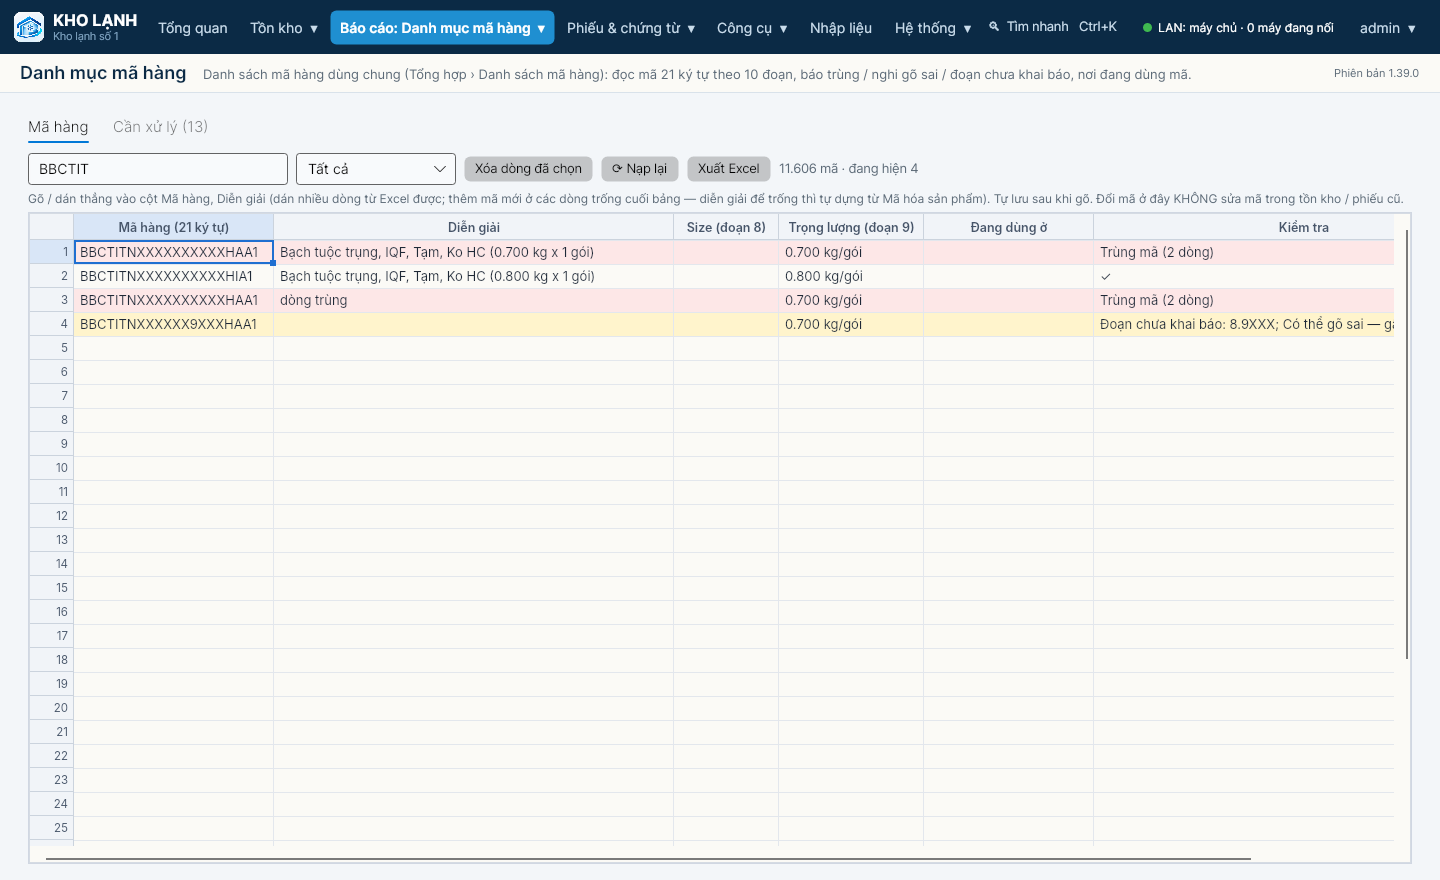
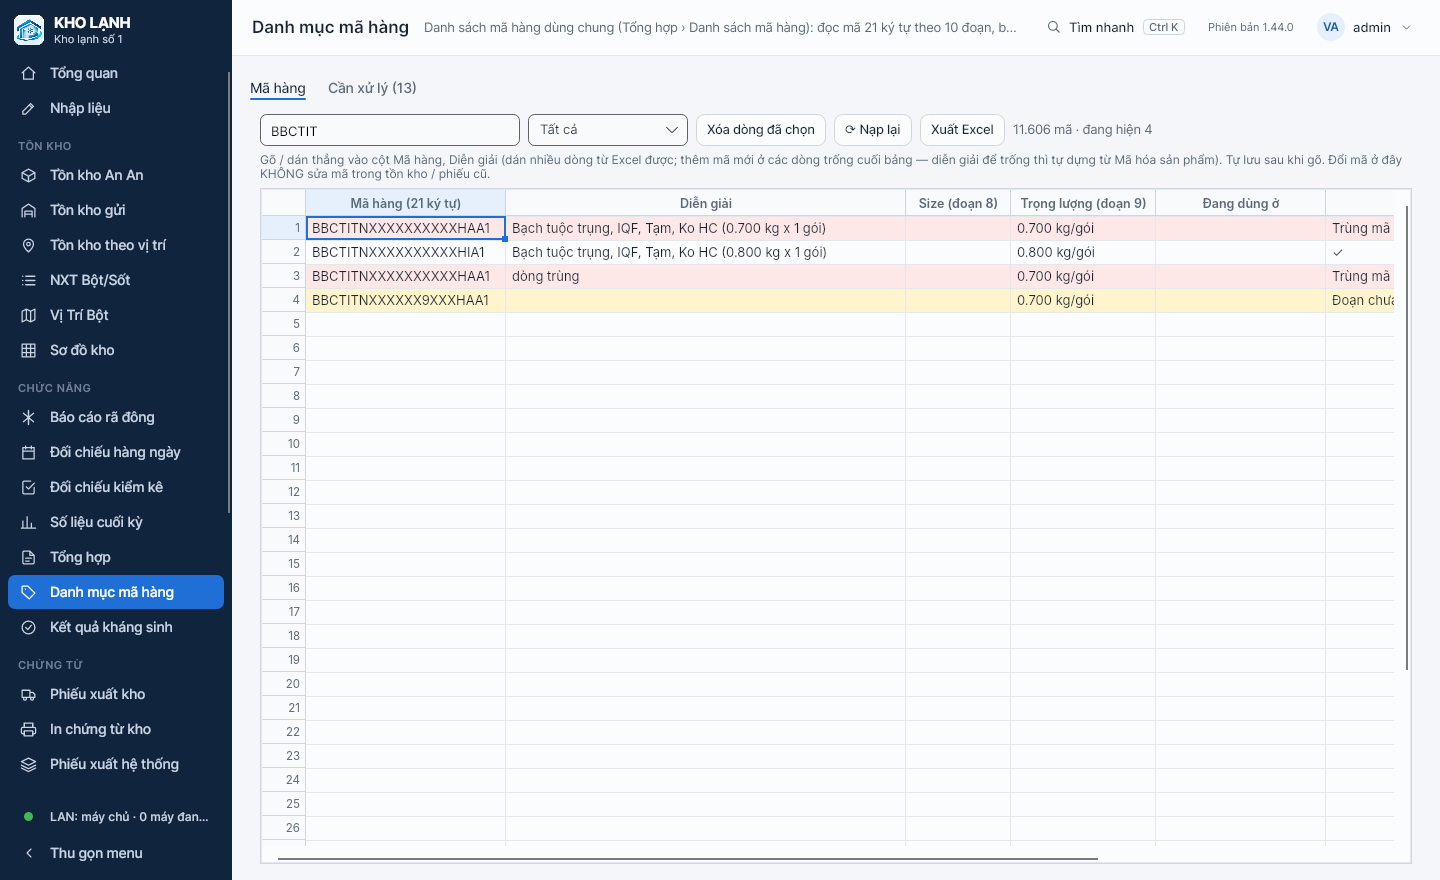
1.44.0: giao diện mới bước 2 — thanh menu bên trái thu gọn được (rê chuột hiện tên ngay), biểu tượng module, số việc cần xử lý, thanh đầu trang mới
Claude-Session: https://claude.ai/code/session_01CcL5zKPX6MXqPbz7cZL3gY

Changed region(s): [[0.0, 0.0, 1.0, 1.0], [0.9375, 0.1534, 0.9688, 0.1841]]

diff --git a/src/KhoLanh.App/MainWindow.axaml.cs b/src/KhoLanh.App/MainWindow.axaml.cs
@@ -27,8 +27,6 @@ public partial class MainWindow : Window
 
     private readonly List<(string group, NavItem[] items)> _menu;
     private readonly Dictionary<string, Button> _buttons = new();
-    private readonly Dictionary<Button, string> _groupLabels = new();
-    private readonly Dictionary<string, MenuItem> _items = new();
     private string _current = "";
 
 
@@ -46,6 +44,7 @@ public partial class MainWindow : Window
         {
             if (!e.KeyModifiers.HasFlag(Avalonia.Input.KeyModifiers.Control) || e.KeyModifiers.HasFlag(Avalonia.Input.KeyModifiers.Shift)) return;
             if (e.Key == Avalonia.Input.Key.K) { e.Handled = true; OpenSearch(); return; }
+            if (e.Key == Avalonia.Input.Key.B) { e.Handled = true; SetMini(!_mini); return; }
             if (e.Key is Avalonia.Input.Key.OemPlus or Avalonia.Input.Key.Add) { Zoom(0.1); e.Handled = true; }
             else if (e.Key is Avalonia.Input.Key.OemMinus or Avalonia.Input.Key.Subtract) { Zoom(-0.1); e.Handled = true; }
             else if (e.Key is Avalonia.Input.Key.D0 or Avalonia.Input.Key.NumPad0) { Zoom(0); e.Handled = true; }
@@ -106,37 +105,24 @@ public partial class MainWindow : Window
                 new NavItem("troly", "Trợ lý hệ thống", () => new TroLyView()),
             }),
         };
-        // Menu ngang gọn theo nhóm: mỗi nhóm là 1 nút thả xuống (nhóm chỉ có 1 mục thì là nút thường),
-        // nên thêm module không làm tràn thanh menu kể cả màn hình 1366px. Nút nhóm sáng lên và ghi tên module đang mở.
-        // Module mới: thêm NavItem vào nhóm (hoặc nhóm mới), thêm mục quyền trong Perm.Items.
-        foreach (var (group, items) in _menu)
+        // Thanh bên trái (1.44): nhóm → các mục (biểu tượng + tên + số việc cần xử lý). Thu gọn chỉ còn biểu tượng; rê chuột hiện tên ngay.
+        // Module mới: thêm NavItem vào nhóm (hoặc nhóm mới) + biểu tượng trong NavIcons, thêm mục quyền trong Perm.Items.
+        BuildSide();
+        SetMini(s.Settings.Get(KeyMini(u.Username)) == "1", save: false);
+        SearchButton.Content = new StackPanel { Orientation = Avalonia.Layout.Orientation.Horizontal, Spacing = 8, Children =
         {
-            var visible = items.Where(Allowed).ToList();
-            if (visible.Count == 0) continue;
-            if (visible.Count == 1)
-            {
-                var item = visible[0];
-                var b = new Button { Content = item.Label, Classes = { "topnav" } };
-                b.Click += (_, _) => Navigate(item.Key);
-                _buttons[item.Key] = b;
-                NavPanel.Children.Add(b);
-                continue;
-            }
-            var groupButton = new Button { Content = GroupLabel(group) + "  ▾", Classes = { "topnav" } };
-            _groupLabels[groupButton] = GroupLabel(group);
-            var flyout = new MenuFlyout { Placement = PlacementMode.BottomEdgeAlignedLeft };
-            foreach (var item in visible)
-            {
-                var mi = new MenuItem { Header = item.Label };
-                mi.Click += (_, _) => Navigate(item.Key);
-                flyout.Items.Add(mi);
-                _items[item.Key] = mi;
-                _buttons[item.Key] = groupButton;
-            }
-            groupButton.Flyout = flyout;
-            NavPanel.Children.Add(groupButton);
-        }
-        UserButton.Content = $"{u.Username}  ▾";
+            Controls.Icon.Make("search", 15), new TextBlock { Text = "Tìm nhanh", VerticalAlignment = Avalonia.Layout.VerticalAlignment.Center },
+            new Border { BorderBrush = AppTheme.Brush("#CDD5DF"), BorderThickness = new Avalonia.Thickness(1), CornerRadius = new Avalonia.CornerRadius(4), Padding = new Avalonia.Thickness(5, 0),
+                Child = new TextBlock { Text = "Ctrl K", FontSize = 11, Classes = { "muted" } } },
+        } };
+        var initials = string.Concat((string.IsNullOrWhiteSpace(u.FullName) ? u.Username : u.FullName).Split(' ', StringSplitOptions.RemoveEmptyEntries).TakeLast(2).Select(w => char.ToUpper(w[0])));
+        UserButton.Content = new StackPanel { Orientation = Avalonia.Layout.Orientation.Horizontal, Spacing = 8, Children =
+        {
+            new Border { Width = 28, Height = 28, CornerRadius = new Avalonia.CornerRadius(14), Background = AppTheme.Brush("#E6F0FC"),
+                Child = new TextBlock { Text = initials, FontSize = 11.5, FontWeight = Avalonia.Media.FontWeight.SemiBold, Foreground = AppTheme.Brush("#1859AE"), HorizontalAlignment = Avalonia.Layout.HorizontalAlignment.Center, VerticalAlignment = Avalonia.Layout.VerticalAlignment.Center } },
+            new TextBlock { Text = u.Username, VerticalAlignment = Avalonia.Layout.VerticalAlignment.Center },
+            Controls.Icon.Make("chevron-down", 13),
+        } };
         ToolTip.SetTip(UserButton, $"{u.FullName} · {u.RoleLabel}");
         UserInfo.Header = $"{(string.IsNullOrWhiteSpace(u.FullName) ? u.Username : u.FullName)} ({u.RoleLabel})";
         // Cập nhật online: có bản mới đã tải xong → hiện nút trên thanh menu.
@@ -164,6 +150,13 @@ public partial class MainWindow : Window
             s.TroLy.StartAuto(TimeSpan.FromSeconds(90), TimeSpan.FromHours(6));
             if (s.TroLy.Last is { } last) OnTroLyScanned(last);
         }
+        // Số "Cần xử lý" của Danh mục mã hàng trên thanh bên: tính ngầm 30 giây sau khi mở app (như app cũ), không làm chậm lúc khởi động.
+        if (s.Session.Can(KhoLanh.Core.DanhMuc.DanhMucService.PermKey))
+            Avalonia.Threading.DispatcherTimer.RunOnce(async () =>
+            {
+                try { var n = await Task.Run(() => { var d = new KhoLanh.Core.DanhMuc.DanhMucService(() => s.Lan, s.Session, s.Audit, () => null); d.Load(); return d.XlNow().Count; }); SetBadge("m3dm", n); }
+                catch { /* chỉ là số gợi ý, lỗi thì bỏ qua */ }
+            }, TimeSpan.FromSeconds(30));
         Navigate(_menu.SelectMany(m => m.items).FirstOrDefault(Allowed)?.Key ?? "backup");
     }
 
@@ -177,7 +170,8 @@ public partial class MainWindow : Window
         LanPill.IsVisible = lan.Enabled;
         if (!lan.Enabled) return;
         LanText.Text = lan.Short;
-        LanText.Foreground = Avalonia.Media.Brushes.White;
+        LanText.Foreground = AppTheme.Brush("#C8D4E3", "#A9B5C3");
+        if (_mini) ToolTip.SetTip(LanPill, "Mạng LAN: " + lan.Short);
         LanDot.Fill = AppTheme.Brush(lan.Health == 2 ? "#F0A030" : "#3FB950");
         ToolTip.SetTip(LanPill, lan.Health == 2
             ? "Không nối được máy chủ: vẫn làm việc bình thường trên dữ liệu của máy này; có máy chủ lại sẽ tự gửi lên và gộp."
@@ -191,7 +185,7 @@ public partial class MainWindow : Window
     private void OnTroLyScanned(KhoLanh.Core.TroLy.TroLyService.ScanResult r) => Avalonia.Threading.Dispatcher.UIThread.Post(() =>
     {
         TroLyButton.IsVisible = r.Do > 0;
-        TroLyButton.Content = $"⚠ Trợ lý: {r.Do}";
+        TroLyButton.Content = Controls.Icon.Label($"Trợ lý: {r.Do}", "warn");
         ToolTip.SetTip(TroLyButton, $"Lần quét lúc {r.At:HH:mm}: {r.Do} cảnh báo nặng, {r.Vang} cần xem. Bấm để mở Trợ lý hệ thống.");
     });
 
@@ -204,7 +198,7 @@ public partial class MainWindow : Window
         var made = msgs.Count(m => m.Contains("tạo List") || m.Contains("List TRỐNG") || m.Contains("tạo phiếu"));
         if (made == 0 && !msgs.Any(m => m.StartsWith("Chưa tự tạo"))) return;
         _autoN += made;
-        AutoButton.Content = _autoN > 0 ? $"⚡ Tự tạo: {_autoN}" : "⚡ Lỗi tự tạo";
+        AutoButton.Content = Controls.Icon.Label(_autoN > 0 ? $"Tự tạo: {_autoN}" : "Lỗi tự tạo", "bolt");
         ToolTip.SetTip(AutoButton, string.Join("\n", msgs.Take(12)) + "\n\nBấm để xem ở Phiếu xuất kho › Tự động đã tạo.");
         AutoButton.IsVisible = true;
     });
@@ -212,7 +206,7 @@ public partial class MainWindow : Window
 
     private void OnUpdateReady(Version v) => Avalonia.Threading.Dispatcher.UIThread.Post(() =>
     {
-        UpdateButton.Content = $"⬆ Cập nhật {v}";
+        UpdateButton.Content = Controls.Icon.Label($"Cập nhật {v}", "download");
         ToolTip.SetTip(UpdateButton, $"Đã tải xong bản {v}. Bấm để dùng ngay (app tự mở lại, dữ liệu giữ nguyên).");
         UpdateButton.IsVisible = true;
     });
@@ -224,6 +218,99 @@ public partial class MainWindow : Window
         if (!await Ui.Confirm(this, $"Cập nhật lên bản {v} ngay bây giờ?\n\nPhần mềm sẽ tự đóng và mở lại sau vài giây. Dữ liệu giữ nguyên. Nhớ lưu việc đang làm dở trước.", "Cập nhật phần mềm", "Cập nhật")) return;
         if (await Ui.Run(this, () => { if (!AppUpdater.ApplyAndRestart()) throw new KhoLanh.Core.Services.BusinessException("Không áp dụng được bản mới — thử lại sau khi mở lại phần mềm."); }))
             AppUpdater.ExitForUpdate();
+    }
+
+    // ------------------------------------------------------------------ thanh bên
+
+    /// <summary>Biểu tượng từng module (tên trong <see cref="Controls.Icon.Paths"/>).</summary>
+    private static readonly Dictionary<string, string> NavIcons = new()
+    {
+        ["lx"] = "home", ["m6"] = "edit",
+        ["m1"] = "box", ["m2"] = "warehouse", ["m7"] = "pin", ["m3sk"] = "list", ["m1vtb"] = "map", ["m8"] = "grid",
+        ["m4"] = "snow", ["m5"] = "calendar", ["m9"] = "check", ["m7ck"] = "chart", ["m3"] = "doc", ["m3dm"] = "tag", ["m10"] = "ok",
+        ["m13"] = "truck", ["m12"] = "print", ["m11"] = "layers",
+        ["m14"] = "cube", ["m15"] = "scan", ["m21"] = "tool", ["m22"] = "compare",
+        ["users"] = "users", ["backup"] = "save", ["lan"] = "network", ["drive"] = "cloud", ["phone"] = "phone", ["audit"] = "history", ["troly"] = "assist",
+    };
+    private readonly Dictionary<string, (Button B, TextBlock Name, Border Badge, Border Dot, string Label)> _side = new();
+    private readonly List<Control> _groupHeads = new();
+    private bool _mini;
+    private static string KeyMini(string user) => "ui_nav_mini:" + user.ToLowerInvariant();
+
+    private void BuildSide()
+    {
+        NavPanel.Children.Clear(); _side.Clear(); _groupHeads.Clear(); _buttons.Clear();
+        var first = true;
+        foreach (var (group, items) in _menu)
+        {
+            var visible = items.Where(Allowed).ToList();
+            if (visible.Count == 0) continue;
+            // nhóm 1 mục (Tổng quan, Nhập liệu) không cần tiêu đề nhóm
+            if (visible.Count > 1 || !first)
+            {
+                var head = new TextBlock { Text = group, Classes = { "sidegrp" } };
+                var line = new Border { Classes = { "sideline" } };
+                _groupHeads.Add(head); _groupHeads.Add(line);
+                if (visible.Count > 1) { NavPanel.Children.Add(head); NavPanel.Children.Add(line); }
+            }
+            first = false;
+            foreach (var item in visible)
+            {
+                var name = new TextBlock { Text = item.Label, Classes = { "sidelbl" }, Margin = new Avalonia.Thickness(10, 0, 0, 0), TextTrimming = Avalonia.Media.TextTrimming.CharacterEllipsis };
+                var badgeText = new TextBlock { FontSize = 11, FontWeight = Avalonia.Media.FontWeight.SemiBold, Foreground = Avalonia.Media.Brushes.White };
+                var badge = new Border { Classes = { "sidebadge" }, IsVisible = false, Child = badgeText };
+                var dot = new Border { Classes = { "sidedot" }, IsVisible = false };
+                var grid = new Grid { ColumnDefinitions = new ColumnDefinitions("22,*,Auto") };
+                var ic = Controls.Icon.Make(NavIcons.GetValueOrDefault(item.Key, "doc"), 17);
+                grid.Children.Add(new Panel { Children = { ic, dot } });
+                Grid.SetColumn(name, 1); grid.Children.Add(name);
+                Grid.SetColumn(badge, 2); grid.Children.Add(badge);
+                var b = new Button { Classes = { "side" }, Content = grid };
+                ToolTip.SetShowDelay(b, 0); ToolTip.SetPlacement(b, PlacementMode.Right); ToolTip.SetHorizontalOffset(b, 8);
+                b.Click += (_, _) => Navigate(item.Key);
+                _side[item.Key] = (b, name, badge, dot, item.Label);
+                _buttons[item.Key] = b;
+                NavPanel.Children.Add(b);
+            }
+        }
+        if (_current.Length > 0 && _buttons.TryGetValue(_current, out var cur)) cur.Classes.Add("active");
+    }
+
+    /// <summary>Thu gọn (chỉ biểu tượng) / mở rộng thanh bên; lưu theo tài khoản trên máy này.</summary>
+    internal void SetMini(bool mini, bool save = true)
+    {
+        _mini = mini;
+        Side.Width = mini ? 60 : 232;
+        LogoText.IsVisible = !mini;
+        LogoRow.Margin = mini ? new Avalonia.Thickness(15, 14, 0, 10) : new Avalonia.Thickness(14, 14, 10, 10);
+        foreach (var c in _groupHeads) c.Classes.Set("mini", mini);
+        foreach (var (key, x) in _side)
+        {
+            x.Name.IsVisible = !mini;
+            var n = x.Badge.Child is TextBlock t && int.TryParse(t.Text, out var v) ? v : 0;
+            x.Badge.IsVisible = !mini && n > 0; x.Dot.IsVisible = mini && n > 0;
+            ToolTip.SetTip(x.B, mini ? x.Label + (n > 0 ? $" · {n} cần xử lý" : "") : null);
+        }
+        foreach (var c in new Control[] { LanText }) c.IsVisible = !mini;
+        ToolTip.SetShowDelay(LanPill, 0); ToolTip.SetPlacement(LanPill, PlacementMode.Right);
+        CollapseButton.Content = new Grid { ColumnDefinitions = new ColumnDefinitions("22,*"), Children =
+        {
+            Controls.Icon.Make(mini ? "chevron-right" : "chevron-left", 16),
+            new TextBlock { Text = "Thu gọn menu", Classes = { "sidelbl" }, Margin = new Avalonia.Thickness(10, 0, 0, 0), IsVisible = !mini }.Also(t => Grid.SetColumn(t, 1)),
+        } };
+        ToolTip.SetShowDelay(CollapseButton, 0); ToolTip.SetPlacement(CollapseButton, PlacementMode.Right);
+        ToolTip.SetTip(CollapseButton, mini ? "Mở rộng menu (Ctrl + B)" : "Thu gọn menu (Ctrl + B)");
+        if (save) App.Services.Settings.Set(KeyMini(App.Services.Session.Username), mini ? "1" : "");
+    }
+    private void OnCollapseClick(object? sender, RoutedEventArgs e) => SetMini(!_mini);
+
+    /// <summary>Số việc cần xử lý cạnh tên module (0 = ẩn). Khi thu gọn hiện chấm cam trên biểu tượng.</summary>
+    public void SetBadge(string key, int n)
+    {
+        if (!_side.TryGetValue(key, out var x)) return;
+        if (x.Badge.Child is TextBlock t) t.Text = n > 0 ? (n > 99 ? "99+" : n.ToString()) : "";
+        x.Badge.IsVisible = !_mini && n > 0; x.Dot.IsVisible = _mini && n > 0;
+        if (_mini) ToolTip.SetTip(x.B, x.Label + (n > 0 ? $" · {n} cần xử lý" : ""));
     }
 
     private static string GroupLabel(string group) =>
@@ -242,14 +329,7 @@ public partial class MainWindow : Window
         PageHost.IsVisible = true;
         PageHost.Content = page;
         if (page is IPage p) { PageTitle.Text = p.Title; PageSubtitle.Text = p.Subtitle; }
-        foreach (var b in _buttons.Values) b.Classes.Remove("active");
-        foreach (var (gb, label) in _groupLabels) gb.Content = label + "  ▾";
-        foreach (var (k, mi) in _items) mi.FontWeight = k == key ? Avalonia.Media.FontWeight.Bold : Avalonia.Media.FontWeight.Normal;
-        if (_buttons.TryGetValue(key, out var now))
-        {
-            now.Classes.Add("active");
-            if (_groupLabels.TryGetValue(now, out var gl) && key is not ("users" or "backup" or "lan" or "audit" or "troly")) now.Content = $"{gl}: {item.Label}  ▾";
-        }
+        foreach (var (k, b) in _buttons) { if (k == key) b.Classes.Add("active"); else b.Classes.Remove("active"); }
         _current = key;
     }
 

diff --git a/src/KhoLanh.App/Views/TongQuanView.cs b/src/KhoLanh.App/Views/TongQuanView.cs
@@ -110,8 +110,9 @@ public sealed partial class TongQuanView : UserControl, IPage
 
     private Control HomeTab()
     {
-        var dayHead = new DockPanel { Margin = new Thickness(0, 0, 0, 8) };
-        var acts = new WrapPanel { ItemSpacing = 6, LineSpacing = 6, HorizontalAlignment = HorizontalAlignment.Right };
+        // tiêu đề + nút xếp dòng tự do: màn hình hẹp (thanh bên mở) thì nút xuống dòng, không đè lên chữ
+        var dayHead = new WrapPanel { ItemSpacing = 16, LineSpacing = 8, Margin = new Thickness(0, 0, 0, 8) };
+        var acts = new WrapPanel { ItemSpacing = 6, LineSpacing = 6, VerticalAlignment = VerticalAlignment.Center };
         if (Svc.CanEdit)
         {
             acts.Children.Add(Btn("+ Thêm lịch", async () => await EditDialog(null, DayKey()), primary: true));
@@ -122,10 +123,9 @@ public sealed partial class TongQuanView : UserControl, IPage
         acts.Children.Add(Btn("Hôm nay", () => { _dayOff = 0; PaintDay(); return Task.CompletedTask; }));
         acts.Children.Add(Btn("›", () => { _dayOff++; PaintDay(); return Task.CompletedTask; }));
         acts.Children.Add(_pick);
-        DockPanel.SetDock(acts, Dock.Right); dayHead.Children.Add(acts);
         var tl = new StackPanel { Spacing = 2 }; tl.Children.Add(H2("Lịch xuất trong ngày"));
         var sub = new StackPanel { Orientation = Orientation.Horizontal, Spacing = 10 }; sub.Children.Add(_dayLb); sub.Children.Add(_dayCnt); tl.Children.Add(sub);
-        dayHead.Children.Add(tl);
+        dayHead.Children.Add(tl); dayHead.Children.Add(acts);
         var dayBox = new StackPanel(); dayBox.Children.Add(dayHead); dayBox.Children.Add(_day);
         if (Svc.CanEdit) dayBox.Children.Add(new Button { Content = "＋ Thêm lịch ngày này", Margin = new Thickness(0, 6, 0, 0), FontSize = 12.5, Command = null }.Also(b => b.Click += async (_, _) => await EditDialog(null, DayKey())));
 

diff --git a/tools/Screenshots/Program.cs b/tools/Screenshots/Program.cs
@@ -442,10 +442,11 @@ var small = new MainWindow { Width = 1366, Height = 768, WindowState = WindowSta
 small.Show();
 Snap(small, "03c-man-hinh-1366");
 {
-    var gb = small.GetVisualDescendants().OfType<Button>().First(b => (b.Content as string)?.StartsWith("Chức năng") == true);
-    gb.Flyout!.ShowAt(gb); Pump();
-    Snap(small, "03d-menu-nhom");
-    gb.Flyout.Hide(); Pump();
+    small.SetMini(true, save: false); Pump();
+    var nb = small.GetVisualDescendants().OfType<Button>().First(b => b.Classes.Contains("side") && ToolTip.GetTip(b) is string t && t.StartsWith("Đối chiếu kiểm kê"));
+    ToolTip.SetIsOpen(nb, true); Pump();
+    Snap(small, "03d-menu-thu-gon");
+    ToolTip.SetIsOpen(nb, false); small.SetMini(false, save: false); Pump();
 }
 small.Close();
 if (Environment.GetEnvironmentVariable("SHOTS_ONLY") == "dm") { DmScene(); s.Lan.Dispose(); Console.WriteLine("Xong (chỉ Danh mục mã hàng): " + outDir); return; }

diff --git a/src/KhoLanh.App/Controls/Icon.cs b/src/KhoLanh.App/Controls/Icon.cs
@@ -61,6 +61,11 @@ public static class Icon
         ["lock"] = "M5 11 H19 V21 H5 Z M8 11 V7 A4 4 0 0 1 16 7 V11",
         ["calendar"] = "M4 5 H20 V21 H4 Z M4 10 H20 M8 3 V7 M16 3 V7",
         ["mail"] = "M3 5 H21 V19 H3 Z M3 6 L12 13 L21 6",
+        ["warehouse"] = "M3 21 V9 L12 3 L21 9 V21 M7 21 V13 H17 V21 M7 17 H17",
+        ["grid"] = "M3 3 H21 V21 H3 Z M3 9 H21 M3 15 H21 M9 3 V21 M15 3 V21",
+        ["tag"] = "M3 12 V4 A1 1 0 0 1 4 3 H11 L21 13 L13 21 Z M7.5 7 V7.5",
+        ["layers"] = "M12 3 L22 8 L12 13 L2 8 Z M2 13 L12 18 L22 13 M2 17 L12 22 L22 17",
+        ["menu"] = "M3 6 H21 M3 12 H21 M3 18 H21",
         ["logout"] = "M9 21 H5 A2 2 0 0 1 3 19 V5 A2 2 0 0 1 5 3 H9 M16 17 L21 12 L16 7 M21 12 H9",
     };
 

diff --git a/CLAUDE.md b/CLAUDE.md
@@ -41,6 +41,7 @@ App quản lý kho lạnh **viết lại bằng C#** (.NET 8, Avalonia, SQLite) 
 | 1.39 | Tự tạo List / phiếu theo Lịch xuất (`PNX_AutoLog` dùng chung app cũ) | `LichXuat/LichXuatAuto.cs`, `PhieuKho/PhieuKhoAuto.cs` |
 | 1.40 | Danh mục mã hàng (quyền `m3dm`) | `DanhMuc/` |
 | 1.41 | Kiểm kê nhanh (tab đầu Đối chiếu kiểm kê) | `KiemKe/KkNhanh.cs`, `Views/KiemKeView.Nhanh.cs` |
+| 1.44 | Giao diện mới bước 2 — thanh bên trái thu gọn được (Ctrl + B, rê chuột hiện tên ngay, nhớ theo tài khoản `ui_nav_mini:<tk>`), biểu tượng từng module, số việc cần xử lý (`MainWindow.SetBadge`, Danh mục mã hàng tính ngầm sau 30 s), thanh đầu trang gộp tiêu đề + Tìm nhanh + tài khoản | `MainWindow.axaml(.cs)`, `Styles.axaml` (Button.side…) |
 | 1.43 | Giao diện mới bước 1 — nền móng: bảng màu Tối thiết kế riêng (`AppTheme.DesignedDark`), tài nguyên mới (Text, Surface2, BorderStrong, Ok/Warn/Bad/Info + Soft, NavFg…), kiểu nút primary / thường / ghost / danger, ô nhập 32 px, tab gạch chân, `Border.pill.*`, bộ biểu tượng nét mảnh `Controls/Icon.cs` | `AppTheme.cs`, `Styles.axaml`, `Controls/Icon.cs` |
 | 1.42 | Sửa lỗi cập nhật FileNotFoundException (nhiều cửa sổ) · bắt lỗi giao diện không sập app · MailKit 4.18.2 · dọn tài liệu / ảnh cũ · sắp lại nhóm menu (Chức năng, Chứng từ) | `AppUpdater.cs`, `Services/UpdateScript.cs` |
 
@@ -57,11 +58,12 @@ App quản lý kho lạnh **viết lại bằng C#** (.NET 8, Avalonia, SQLite) 
 - Thứ tự nhóm menu (đã áp ở 1.42.0): Tổng quan · Nhập liệu · Tồn kho · Chức năng (Báo cáo rã đông, Đối chiếu hàng ngày, Đối chiếu kiểm kê, Số liệu cuối kỳ,
   Tổng hợp, Danh mục mã hàng, Kết quả kháng sinh) · Chứng từ (Phiếu xuất kho, In chứng từ kho, Phiếu xuất hệ thống) · Công cụ · Hệ thống.
 - Mỗi trang cùng khuôn: tiêu đề + mô tả 1 dòng, nút chính góc phải → thẻ số → thanh lọc → bảng → khung chi tiết bên phải; 1 nút chính / màn hình, nút xóa viền đỏ.
-- Trạng thái: bước 1 ✅ 1.43.0 · bước 2 ⏳ · bước 3 ⏳ · bước 4 ⏳
+- Trạng thái: bước 1 ✅ 1.43.0 · bước 2 ✅ 1.44.0 · bước 3 ⏳ · bước 4 ⏳
 - Các bước (mỗi bước 1 bản): 1 nền móng (bộ màu / kiểu control / biểu tượng) · 2 khung app (thanh bên thu gọn, đầu trang, Ctrl+K, trạng thái LAN / Drive) ·
   3 khuôn trang dùng chung + Tổng quan / Tồn kho · 4 các module còn lại + chụp lại ảnh. Sửa luôn API Avalonia cũ (Clipboard.GetTextAsync, DragEventArgs.Data).
 
 ## Nhật ký tiến độ
 (Ghi theo mẫu: ngày · việc · bản · đã làm · còn thiếu / lưu ý · file chính.)
+- 24/11/2026 · Giao diện mới bước 2 · 1.44.0 · `MainWindow.axaml` viết lại: thanh bên (Border `Side` 232 / 60 px, `BuildSide`, `SetMini`, `NavIcons`, `SetBadge`), nút trạng thái trên đầu trang dùng `Icon.Label` (bỏ emoji), Tổng quan: đầu khung Lịch xuất trong ngày xếp dòng tự do (hết đè chữ ở 1366 px). Ảnh `03d-menu-thu-gon`. Bước 3 tiếp: khuôn trang dùng chung (đầu trang / thanh lọc / thẻ số / khung chi tiết / trạng thái trống) + Tổng quan, Tồn kho.
 - 24/11/2026 · Giao diện mới bước 1 · 1.43.0 · màu mới "Băng sạch" (nền #F4F6F9, nhấn #1F6FD6, Sáng dịu: trắng tinh → #FBFCFD), Tối thiết kế riêng cho các màu chính (màu ngoài bảng vẫn đổi HSL); Styles.axaml viết lại; `Icon.Make(name)` / `Icon.Button(text, icon, kind)` (46 biểu tượng, nét theo màu chữ cha) — CHƯA thay emoji trong các View (làm ở bước 3–4). Bước 2 tiếp: thanh bên thu gọn (rê chuột hiện tên ngay) thay menu trên, `MainWindow.axaml(.cs)`.
 - 24/11/2026 · Quét sau phát hành · 1.42.0 · `Dispatcher.UIThread.UnhandledException` (lỗi thao tác không sập app), sửa lỗi Trợ lý báo `FileNotFoundException System.Diagnostics.Process` ở `AppUpdater.RunHelper` (Warmup + chặn cập nhật khi còn cửa sổ khác + script chờ mọi cửa sổ, test `UpdateScriptTests`), MailKit 4.8.0 → 4.18.2 (lỗ hổng GHSA-9j88-vvj5-vhgr), `SoKhoView.ApplyTemplate` → `ApplyMau` (trùng tên hàm Avalonia), xóa `docs/BAN-GIAO.md` (việc WebView2 đã xong) + 60 ảnh không dùng, rút gọn CLAUDE.md.

diff --git a/README.md b/README.md
@@ -69,7 +69,8 @@ Menu trên cùng gom theo nhóm (Tồn kho, Báo cáo, Nhập liệu, Hệ thố
 ![So sánh & Tra cứu bảng](docs/anh/39-so-sanh-bang.png)
 ![Giao diện Tối](docs/anh/40-giao-dien-toi-tong-quan.png)
 ![Tìm nhanh toàn app](docs/anh/41-tim-nhanh.png)
-![Danh mục mã hàng](docs/anh/44-danh-muc-ma-hang.png)
+![Danh mục mã hàng — giao diện Băng sạch, thanh bên trái](docs/anh/44-danh-muc-ma-hang.png)
+![Thanh bên thu gọn](docs/anh/03d-menu-thu-gon.png)
 ![Kiểm kê nhanh](docs/anh/45-kiem-ke-nhanh.png)
 
 ## Dùng chung qua mạng LAN
